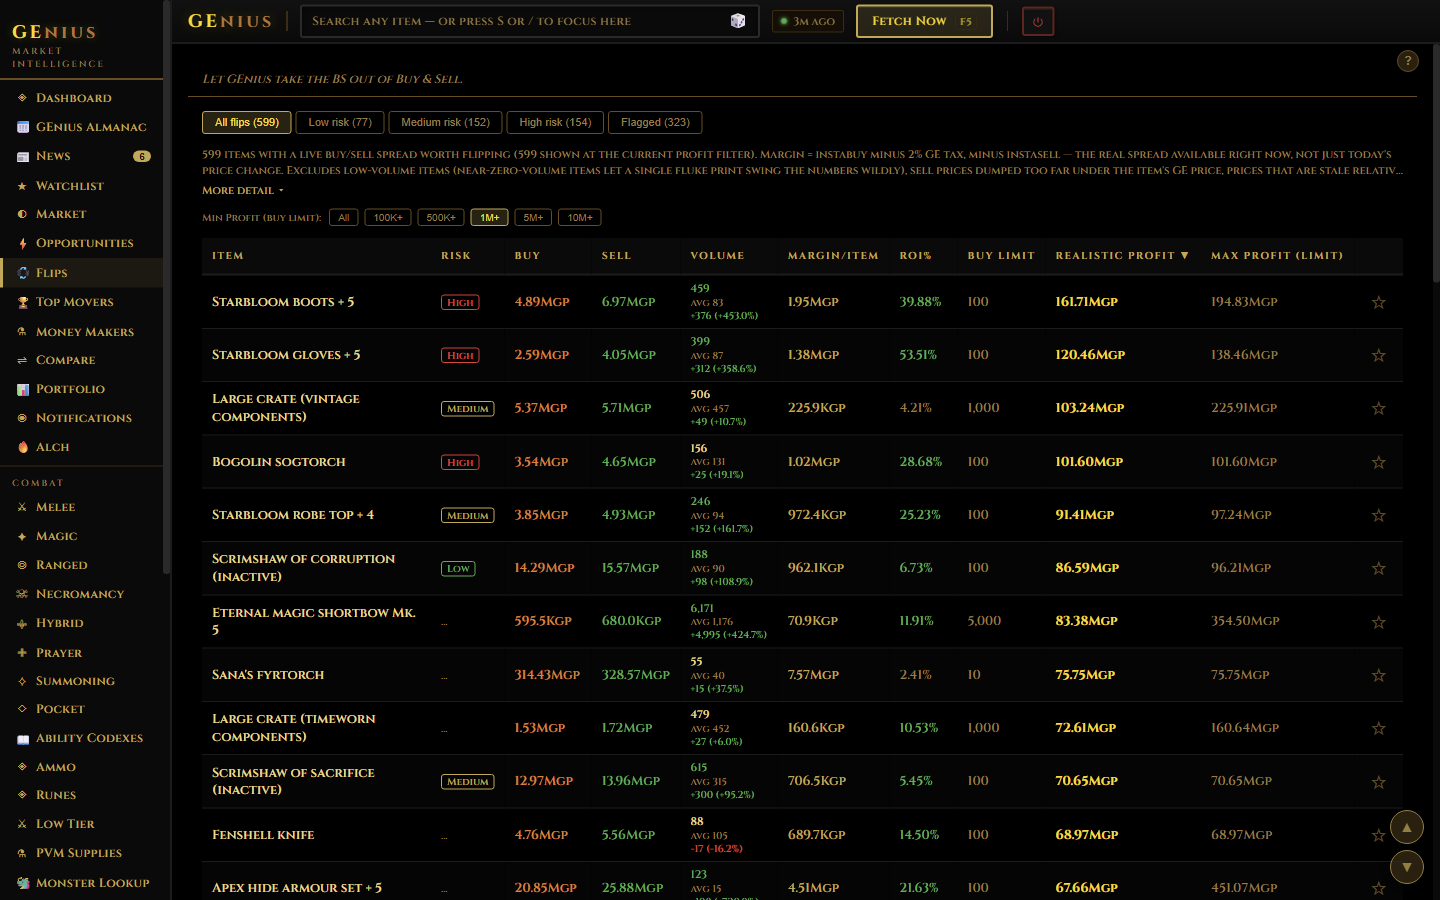
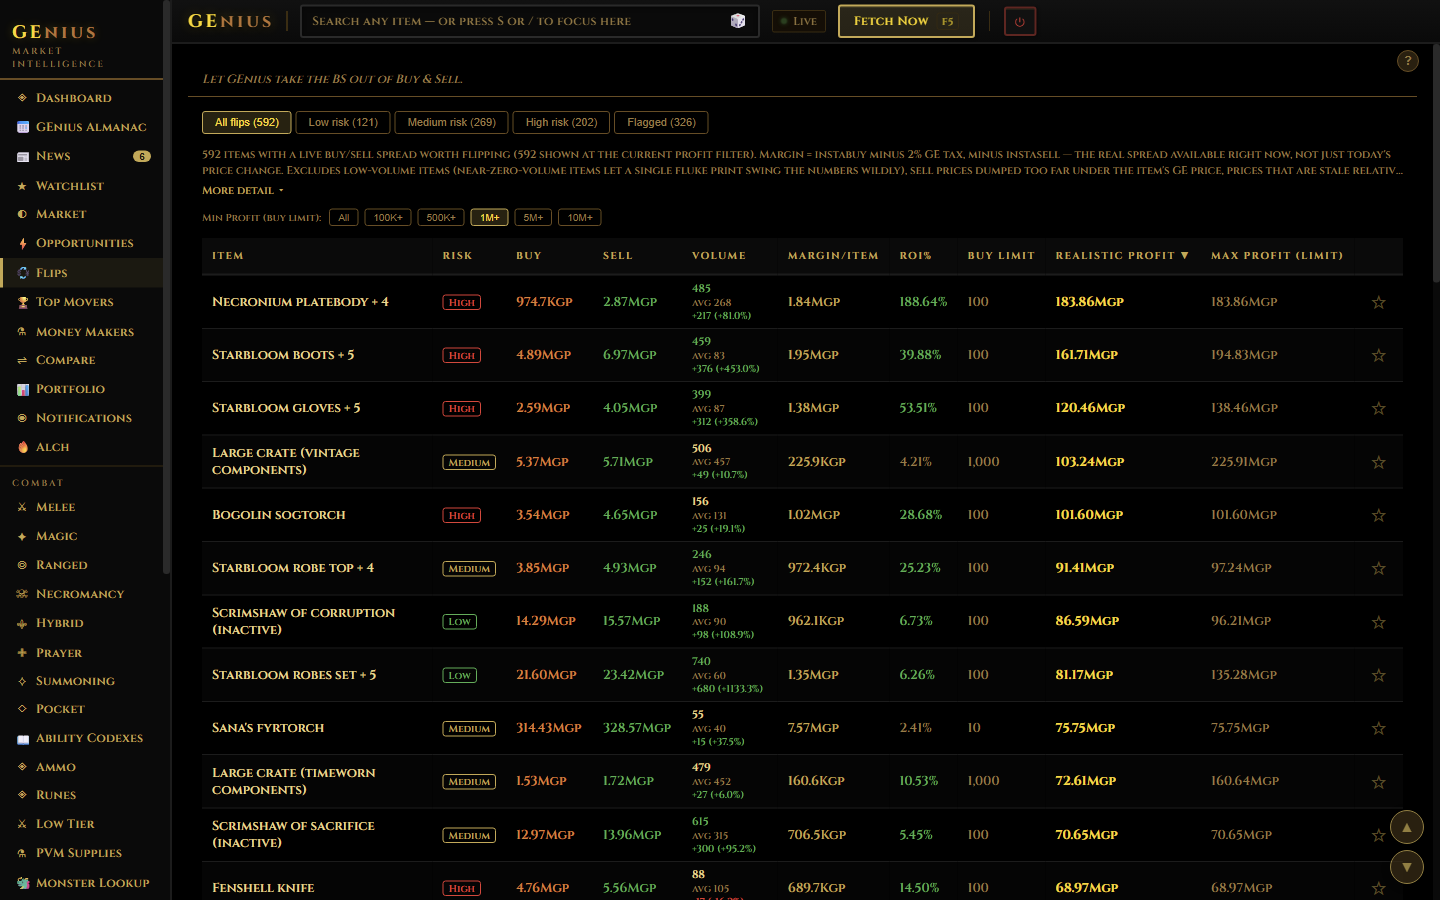
Site: Flips screenshots retaken with every visible row's risk filled in; site-shots waits for it

diff --git a/scripts/site-shots.js b/scripts/site-shots.js
@@ -92,6 +92,9 @@ function fakeData(items) {
       if (name !== 'item') { await js(`([...document.querySelectorAll('button')].find(b => b.textContent.trim() === 'X')?.click(), true)`); await wait(400); }
       await js(SHOTS[name]);
       await wait(name === 'flips' ? 1000 : 3500);
+      // Every visible row needs its risk worked out: a "—" or "…" in the Risk column
+      // made the Nov 12 shot look like items had no rating (Ben caught it).
+      if (name === 'flips') await until(`[...document.querySelectorAll('.pt-flips tbody tr')].slice(0, 14).every(tr => { const t = tr.children[1]?.textContent.trim(); return t && t !== '—' && t !== '…'; })`, 180000);
       if (name === 'flips') await until(`!document.body.innerText.includes('Still working out risk') && [...document.querySelectorAll('button')].some(b => /^Low risk \\([1-9]/.test(b.textContent))`, 120000), await wait(1500);
       await js(`(document.querySelector('.content').scrollTop = 0, true)`);
       await wait(600);
